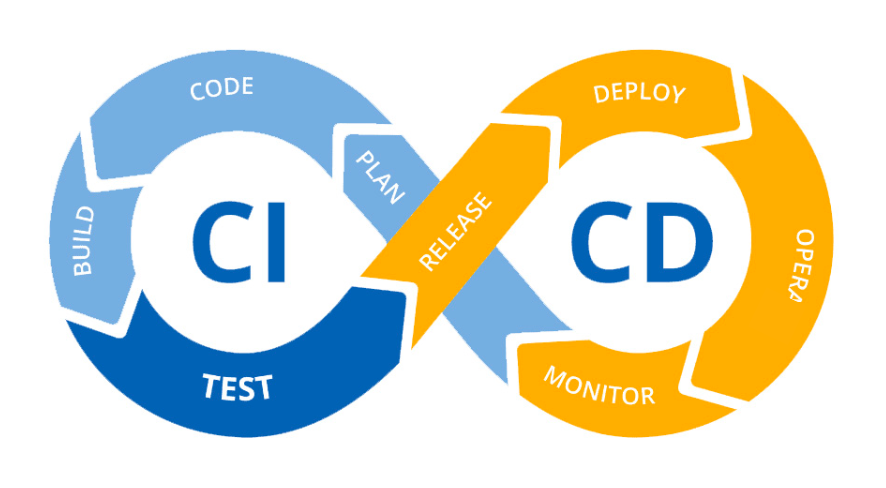
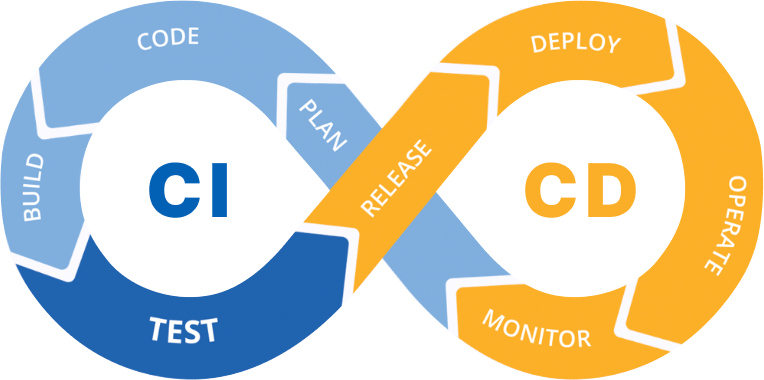
feat: improve workflow diagram in project page

diff --git a/assets/styles/scss/pages/_project-details.scss b/assets/styles/scss/pages/_project-details.scss
@@ -1,9 +1,24 @@
 @use '../utils/' as *;
 .container-project {
   .section-2 {
-    .wrapper-illustration img{
-      border-radius: 0.5rem;
-      background-color: #d1c7c2;
+    .workflow-cicd-img{
+      height: 100% !important;
+    }
+    .list-group-numbered li {
+      position: relative;
+      &::after {
+        content: '';
+        position: absolute;
+        top: 0;
+        left: -1.5rem;
+        width: 1rem;
+        height: 100%;
+        background-color: #2063af;
+        border-radius: 9px;
+      }
+      &:nth-last-child(-n + 6)::after {
+        background-color: #FBB027;
+      }
     }
   }
   .section-3 {

diff --git a/assets/js/anim-sliders.js b/assets/js/anim-sliders.js
@@ -7,4 +7,4 @@ setInterval(() => {
     i++;
     i = i >= sliders.length ? 0 : i;
     console.log(i)
-}, 3000);
+}, 5200);
